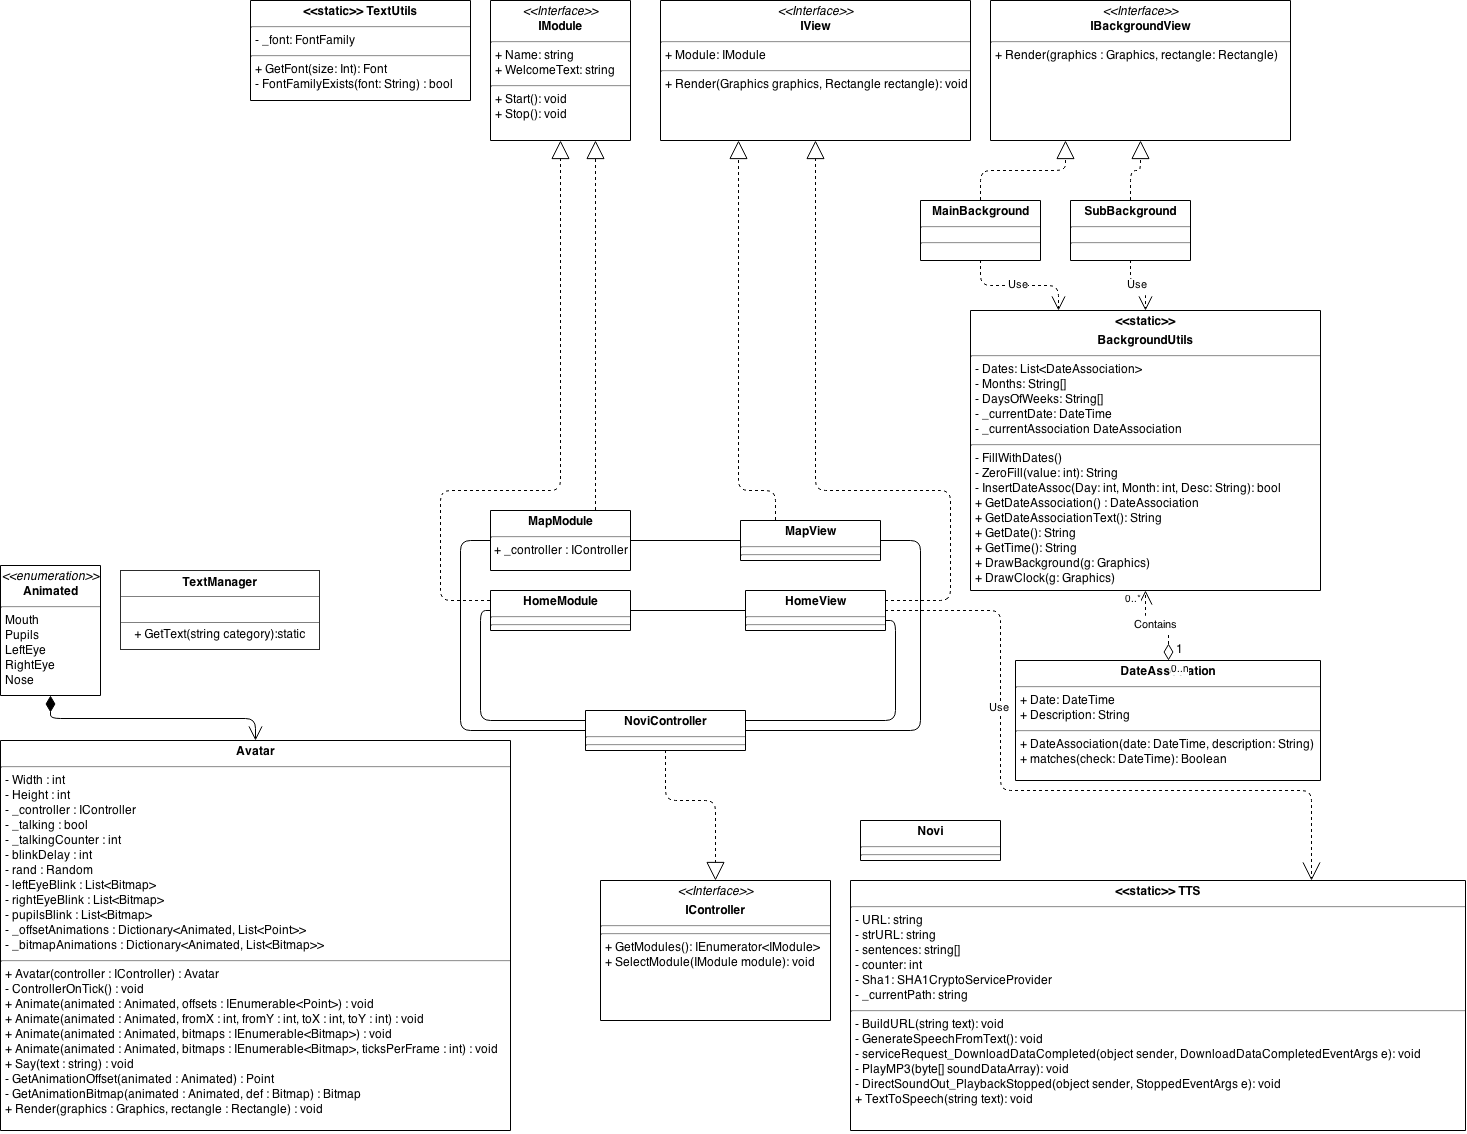
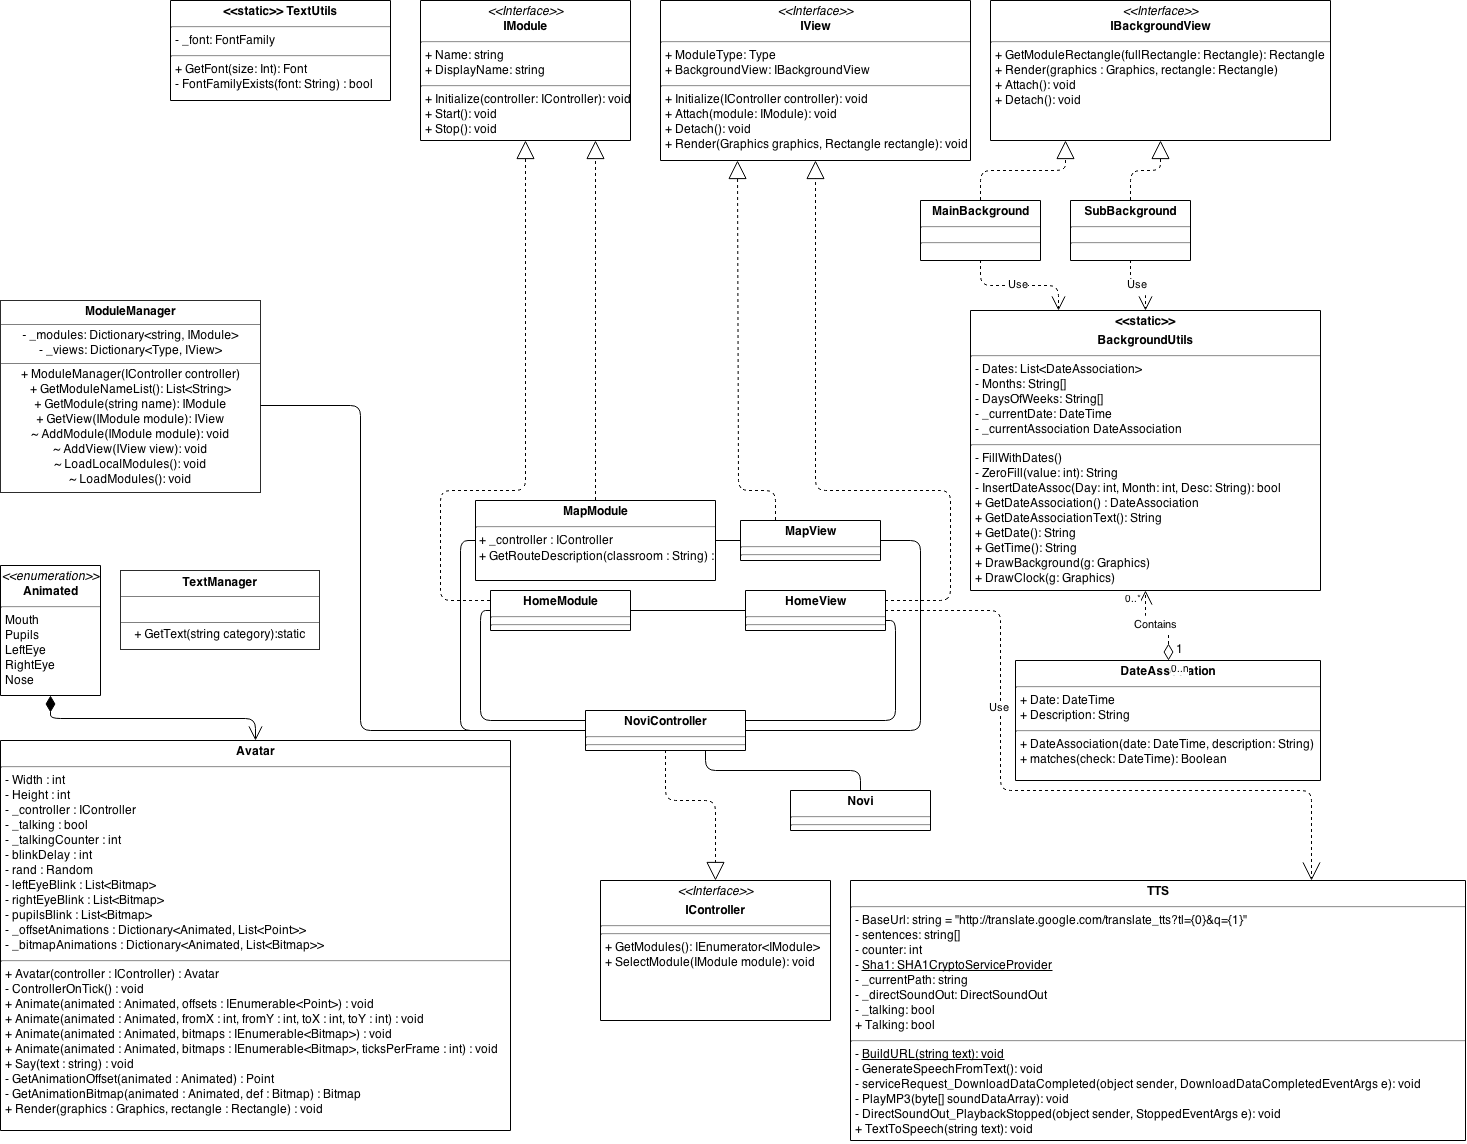
TO uitgebreid. Moet nog gecontroleerd worden.

diff --git a/doc/Technisch Ontwerp.md b/doc/Technisch Ontwerp.md
@@ -20,17 +20,10 @@ date: November 2014
 ...
 
 # Inleiding
-In dit document staan de technische aspecten van het project beschreven. Er zullen hiervoor schematechnieken gebruikt worden die ons zijn geleerd.
-Diagrammen zullen kort toegelicht worden om eventuele verwarring te voorkomen.
-
-Was ist das?
-============
-
-> Wat moet hier in:
->  - Klassendiagram
->  - Toestandsdiagram
->  - Sequence diagram
->  - Extra uitleg bij (zeer) complexe onderdelen
+In dit document staan de technische aspecten van het project beschreven.
+Om een goed beeld te kunnen geven van de applicatie is het technisch ontwerp opgedeeld in verschillende delen.
+Het technisch ontwerp bevat een klassediagram tesamen met diagrammen die specifieke processen beter in beeld zullen brengen. Er zullen hiervoor schematechnieken gebruikt worden die ons zijn geleerd.
+Diagrammen zullen kort toegelicht worden om eventuele verwarring te voorkomen. Daarnaast zal het technisch ontwerp op globaal niveau de complexere onderdelen van het project beschrijven.
 
 ========
 # Ontwerpkeuzes
@@ -38,16 +31,45 @@ Was ist das?
 ## Modules
 Een eis van de opdrachtgever was om de applicatie zo op te zetten dat deze uit te breiden zou zijn door andere studenten.
 Om deze reden hebben we ervoor gekozen om de applicatie op te delen in verschillende modules. Deze modules erfen een groot deel van hun attributen over zodat de layout (plaatsing avatar, datum/tijd, etc.) voor iedere module gelijk is.
-Iedere module werkt met een Module en een View klasse. De achterliggende gedachte is dat de Module klasse gebruikt wordt om gegevens te verzamelen die in de view klasse getekent worden. 
+Iedere module werkt met een Module en een View klasse. De achterliggende gedachte is dat de Module klasse gebruikt wordt om gegevens te verzamelen die in de view klasse getekent worden. Iedere aangemaakte module wordt automatisch getekent op het hoofdscherm met een icoontje dat gespecificeerd kan worden door de gebruiker.
 
-Iedere aangemaakte module wordt automatisch getekent op het hoofdscherm met een icoontje dat gespecificeerd kan worden door de gebruiker.
+
 
 ## Diagrammen
+
+Ons klassendiagram hebben we opgedeeld in meerdere kleine diagrammen zodat iedere module zijn eigen klassendiagram heeft.
+Naast het klassendiagram is er een activitydiagram dat illustreert hoe de gebruiker door de verschillende modules kan navigeren en hoe de idle timer werkt.
+Als laatste is er een sequence diagram gemaakt om het openen van een module te demonstreren.
 
 =======
 # Klassendiagram
 
 ![Klassendiagram](images/KlassendiagramNovi.png)
+
+In dit eerste klassendiagram worden de 'algemene' acties van onze applicatie afgehandeld.
+Het animeren van de avatar, inladen van de teksten, opbouwen van de homemodule en de text to speech gebeurt hier.
+Tijdens het ontwikkelen is er rekening gehouden met eventuele uitbreidingen die gemaakt kunnen worden op de applicatie.
+Dit is ook de reden dat iedere module een eigen klassendiagram heeft.
+
+======
+![kaart klassendiagram](images/mapClassdiagram.png)
+
+Dit klassendiagram beschrijft de structuur van de kaart module waar gebruikers de locatie van een ruimte kunnen opvragen.
+De module maakt gebruik van een Module en een view klasse. In de module worden alle attributen opgehaald die uiteindelijk in de view getekend moeten worden.
+
+
+======
+![weer klassendiagram](images/weatherClassdiagram.png)
+
+De weermodule werkt op dezelfde manier als de kaart module. De gegevens die in de WeatherModule opgehaald worden zijn afkomstig van Forecast.io
+Daarnaast heeft de weermodule als extra uitbreiding een actuele voorspelling van het weer die ook op de homemodule is te zien.
+
+======
+![twitter klassendiagram](images/twitterClassdiagram.png)
+
+De twittermodule wordt gebruikt om recente tweets te weergeven van accounts en hashtags die in het beheerspaneel aan te passen zijn.
+Informatie wordt binnengehaald door middel van de API die twitter voor developers beschikbaar heeft gesteld.
+Gegevens worden om de 5 minuten opnieuw opgehaald.
 
 =======
 # Activitydiagram
@@ -57,8 +79,9 @@ In het bovenstaande diagram wordt globaal aangegeven op welke manier een gebruik
 Binnen het diagram kan een 'willekeurige module' ook het hoofdscherm zijn dit is compleet willekeurig.
 
 =======
-# Toestandsdiagram
+# Sequencediagram
 
-=======
-# Conclusie
+![Activitydiagram](images/SequenceModule1.png)
 
+In dit sequence diagram staat beschreven hoe de applicatie door de verschillende klasses en interfaces loopt om zo uiteindelijk een module op het scherm te kunnen tonen.
+In dit geval wordt er van uitgegaan dat de HomeModule aangeroepen wordt.
